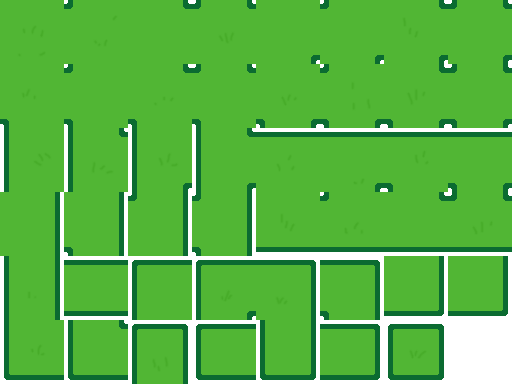
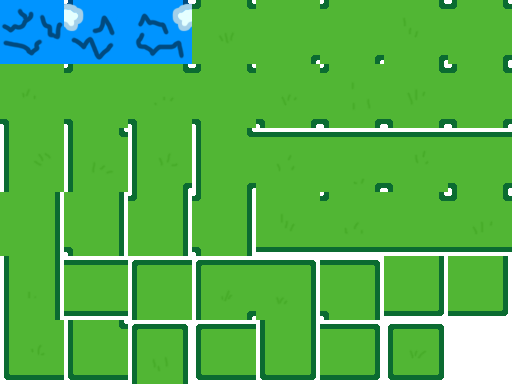
WIP : Niveau 3 en cours de dev

Changed region(s): [[0.0, 0.0, 0.375, 0.1875]]

diff --git a/Platformer/Platformer_DynamicMovingPlatform.cpp b/Platformer/Platformer_DynamicMovingPlatform.cpp
@@ -150,7 +150,6 @@ bool cDynamicMovingPlatform::LeftCollisionWithLag(float topCornerY, float botCor
 	olc::vf2d prevPtfmTopLeftCorner(fPrevPosX - fHitboxThickness, fPrevPosY);
 	olc::vf2d prevPtfmBotRightCorner(fPrevPosX + fHitboxThickness, fPrevPosY + (fDynHeight / (float)engine->GetTileHeight()));
 
-	// TODO TESTER AVEC LES CRUSHERS
 	return bSolidLeft && (
 		// playerPX is left to the platform and newPlayerPY is right to the platform
 		((fPlayerPosX <= ptfmTopLeftCorner.x) && (fNewPlayerPosX >= ptfmBotRightCorner.x) && (topCornerY >= ptfmTopLeftCorner.y) && (topCornerY <= ptfmBotRightCorner.y)) ||
@@ -196,7 +195,6 @@ bool cDynamicMovingPlatform::RightCollisionWithLag(float topCornerY, float botCo
 	olc::vf2d prevPtfmTopLeftCorner(fPrevPosX + (fDynWidth / (float)engine->GetTileWidth()) - fHitboxThickness, fPrevPosY);
 	olc::vf2d prevPtfmBotRightCorner(fPrevPosX + (fDynWidth / (float)engine->GetTileWidth()) + fHitboxThickness, fPrevPosY + (fDynHeight / (float)engine->GetTileHeight()));
 
-	// TODO TESTER AVEC LES CRUSHERS
 	return bSolidRight && (
 		// playerPX is right to the platform and newPlayerPY is left to the platform
 		((fPlayerPosX >= ptfmTopLeftCorner.x) && (fNewPlayerPosX <= ptfmBotRightCorner.x) && (topCornerY >= ptfmTopLeftCorner.y) && (topCornerY <= ptfmBotRightCorner.y)) ||
@@ -271,10 +269,13 @@ std::map<std::string, std::vector<olc::Sprite*>> cDynamicMovingPlatform::LoadMov
 
 #pragma region Platforms and walls
 	mapPlatforms["basic"].push_back(new olc::Sprite("assets/gfx/basicPlatform.png"));
+	mapPlatforms["iceBasic"].push_back(new olc::Sprite("assets/gfx/iceBasicPlatform.png"));
 
 	mapPlatforms["ice"].push_back(new olc::Sprite("assets/gfx/icePlatform.png"));
 
 	mapPlatforms["wall"].push_back(new olc::Sprite("assets/gfx/wall.png"));
+
+	mapPlatforms["iceWall"].push_back(new olc::Sprite("assets/gfx/iceWall.png"));
 
 	mapPlatforms["toLeft"].push_back(new olc::Sprite("assets/gfx/toLeft.png"));
 	mapPlatforms["toRight"].push_back(new olc::Sprite("assets/gfx/toRight.png"));
@@ -293,6 +294,11 @@ std::map<std::string, std::vector<olc::Sprite*>> cDynamicMovingPlatform::LoadMov
 	mapPlatforms["spikeUp"].push_back(new olc::Sprite("assets/gfx/spikeUp.png"));
 	mapPlatforms["spikeLeft"].push_back(new olc::Sprite("assets/gfx/spikeLeft.png"));
 	mapPlatforms["spikeRight"].push_back(new olc::Sprite("assets/gfx/spikeRight.png"));
+
+	mapPlatforms["stalactite"].push_back(new olc::Sprite("assets/gfx/stalactite.png"));
+	mapPlatforms["stalacleftite"].push_back(new olc::Sprite("assets/gfx/stalacleftite.png"));
+	mapPlatforms["stalagmite"].push_back(new olc::Sprite("assets/gfx/stalagmite.png"));
+	mapPlatforms["stalacrightite"].push_back(new olc::Sprite("assets/gfx/stalacrightite.png"));
 #pragma endregion
 
 	return mapPlatforms;

diff --git a/Platformer/Platformer_DynamicTeleport.cpp b/Platformer/Platformer_DynamicTeleport.cpp
@@ -146,5 +146,7 @@ std::map<std::string, std::vector<olc::Sprite*>> cDynamicTeleport::LoadTeleports
 
 	mapTeleports["door"].push_back(new olc::Sprite("assets/gfx/door.png"));
 
+	mapTeleports["iceDoor"].push_back(new olc::Sprite("assets/gfx/iceDoor.png"));
+
 	return mapTeleports;
 }
